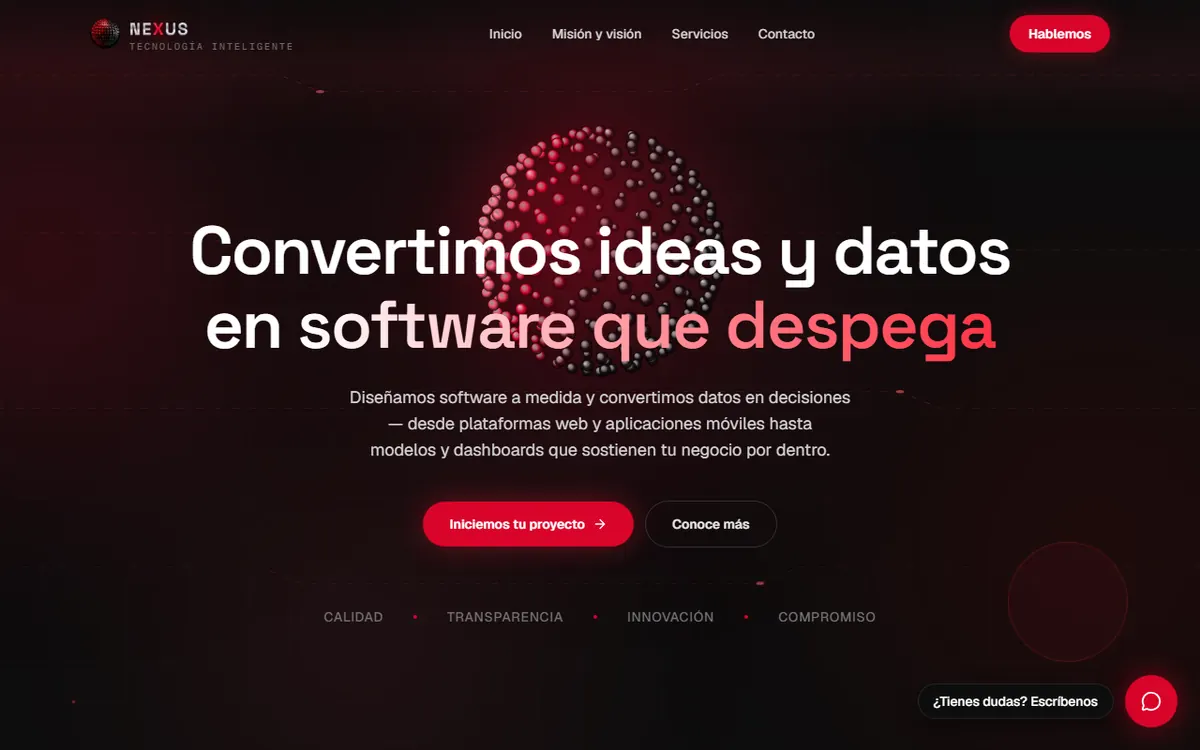
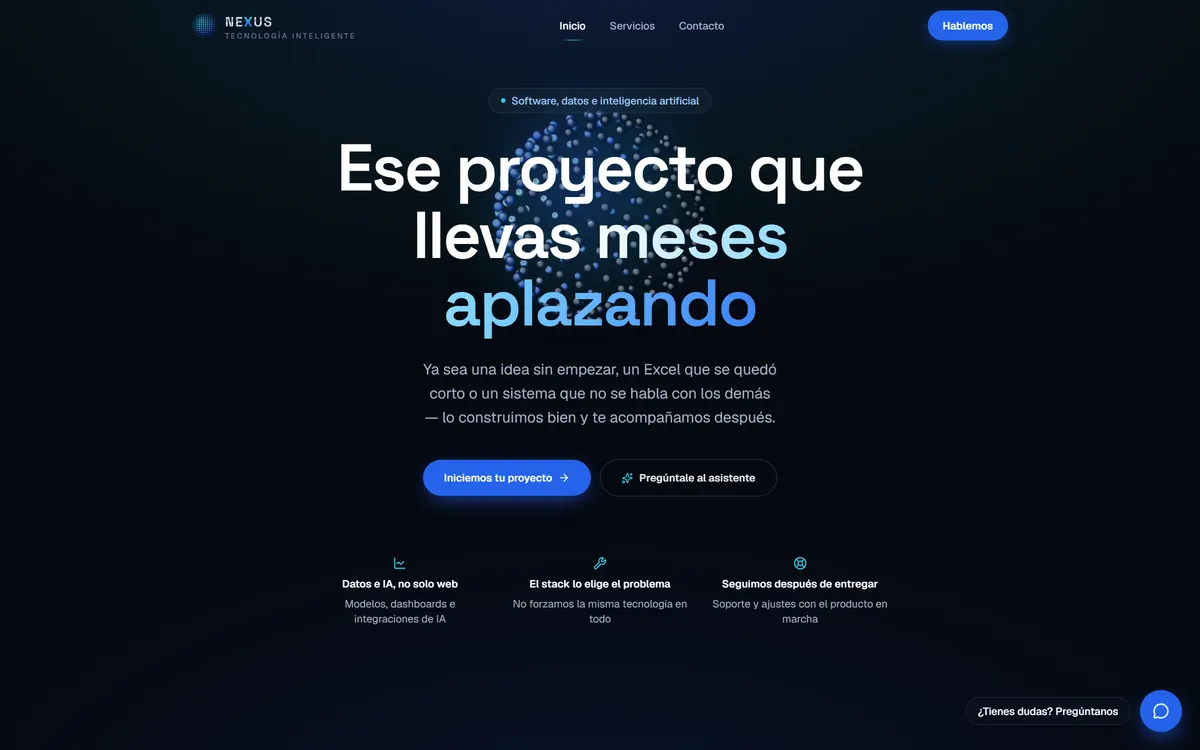
Baja el LCP a 1,8 s y actualiza la captura de NEXUS
Lighthouse daba 2,3 s de LCP, por encima del objetivo. Dos causas, las dos en
la ruta crítica de la fuente del titular, que es el elemento más grande de la
página:

- El navegador no descubría las fuentes hasta descargar y analizar el CSS. Se
  añade preload de las dos críticas, resueltas por Vite para que el enlace
  apunte siempre al fichero con hash correcto. FCP: 1,8 s -> 1,2 s.
- Archivo se cargaba en su variante con eje de anchura, que pesa 90 KB frente
  a los 35 KB de la variante de peso, solo para aplicar un font-stretch del
  108 %. No compensaba: se cambia por la ligera. LCP: 2,3 s -> 1,8 s.

Lighthouse tras el cambio: Performance 99, Accesibilidad 100, Buenas prácticas
100, SEO 100, CLS 0, TBT 0 ms.

La captura de NEXUS se rehace desde el sitio en vivo, que se rediseñó: se toma
a 1600x1000 y se reencodea a WebP de 1200x750 y 35 KB, con las mismas
dimensiones declaradas que la otra preview para no provocar saltos de
maquetación.

Claude-Session: https://claude.ai/code/session_018LgtBFxwFPSYJuMy74P6Pg

diff --git a/src/styles/global.css b/src/styles/global.css
@@ -1,9 +1,11 @@
 @import 'tailwindcss';
 
 /* Fuentes self-hosted: sin request a Google Fonts, mejor LCP y sin fuga de IPs.
-   De Archivo tomamos el eje de anchura (wdth) para el display; de IBM Plex,
-   solo el subconjunto latino en los tres pesos que realmente usamos. */
-@import '@fontsource-variable/archivo/wdth.css';
+   De Archivo se toma el eje de peso, no el de anchura: la variante con wdth
+   pesa 90 KB frente a 35 KB, y estaba en la ruta crítica del LCP porque el
+   titular del héroe es el elemento más grande de la página. Un font-stretch
+   del 108 % no vale 55 KB. */
+@import '@fontsource-variable/archivo';
 @import '@fontsource/ibm-plex-sans/latin-400.css';
 @import '@fontsource/ibm-plex-sans/latin-500.css';
 @import '@fontsource/ibm-plex-sans/latin-600.css';
@@ -77,7 +79,6 @@
 
   .font-display {
     font-family: var(--font-display);
-    font-stretch: 108%;
   }
 
   /* Las cifras se alinean como en una hoja de datos. Es la señal técnica del
